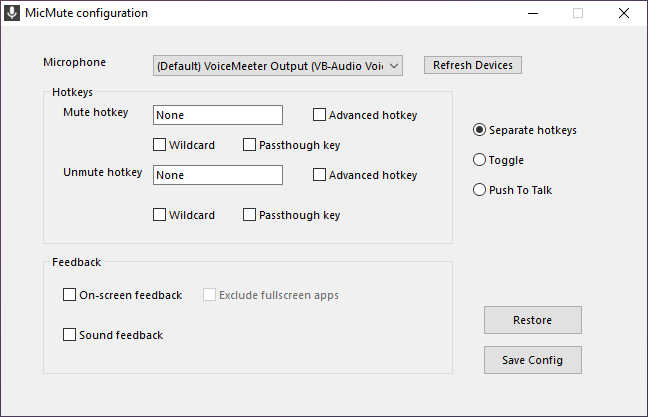
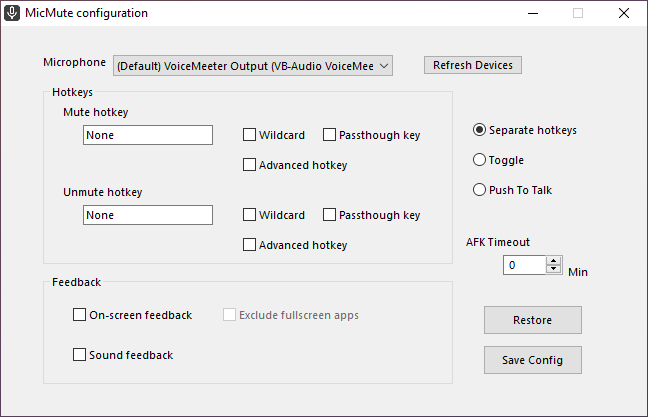
Update README.md

diff --git a/README.md b/README.md
@@ -28,11 +28,10 @@ MicMute
 
         scoop install micmute
 
-#### If you Install the application using scoop, it will run at startup. You can disable this from task manager.
 
 ## Usage
 
-The first time you run the script, you will be asked to setup the hotkeys:
+On the first run, you will be asked to set up MicMute:
 
 ![](./assets/firstsetupdialog.png)
 
@@ -42,7 +41,7 @@ Click OK and a new configuration window will open:
 
 1. Choose your microphone from the drop down list.
 
-2. Choose whether you want Seprate hotkeys for Mute and Unmute or Toggle/Push To Talk.
+2. Choose whether you want Separate hotkeys for Mute and Unmute or Toggle/Push To Talk.
 
 3. Based on your choice, you will either need to setup both hotkeys or just one of them.
         
@@ -59,9 +58,12 @@ Click OK and a new configuration window will open:
    
    </details>
 
-5. Choose whether you want the OSD to exclude fullscreen apps/games (this is needed if the fullscreen app/game loses focus when the OSD is shown)
+5. Choose whether you want the OSD to exclude fullscreen apps/games (this is needed for games that lose focus when the OSD is shown).
 
-6. Click "Save Config"
+6. Set up "AFK Timeout" if you want it to automatically mute the microphone when you idle for longer than a set interval (in minutes).
+
+7. Click "Save Config"
+
 
 <details><summary><b>You can also write/edit the config file in a text editor:</b></summary> 
 
@@ -77,6 +79,7 @@ SoundFeedback=
 OnscreenFeedback=
 ExcludeFullscreen=
 UpdateWithSystem=
+afkTimeout=
 ```
 
 1. `Microphone` can be any substring of your microphone's name or the controller's name as shown in this image:
@@ -121,6 +124,7 @@ SoundFeedback=1
 OnscreenFeedback=1
 ExcludeFullscreen=0
 UpdateWithSystem=1
+afkTimeout=5
 ```           
 
 </details>
